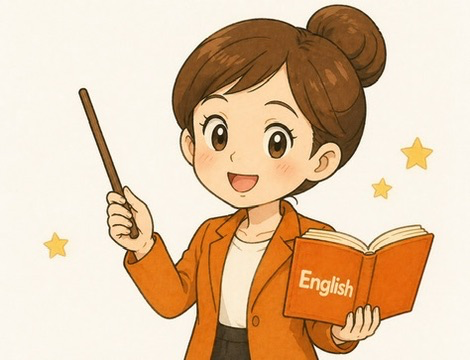
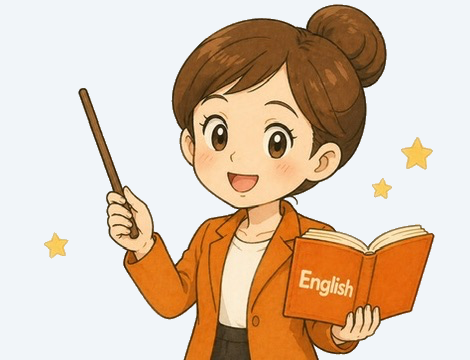
fix: 선생님 이미지 배경색을 게임화면 배경색(#F1F5F9)으로 교체
- Python flood-fill로 teacher.png 흰 배경(58.5%)을 #F1F5F9로 직접 교체
- CSS mix-blend-mode 제거 (이미지 자체 수정으로 불필요)

diff --git a/css/screens.css b/css/screens.css
@@ -784,7 +784,6 @@
   display: flex;
   align-items: flex-end;
   justify-content: center;
-  background: var(--clr-bg);
 }
 
 .teacher-svg {
@@ -792,7 +791,6 @@
   height: auto;
   max-height: 155px;
   display: block;
-  mix-blend-mode: multiply;
 }
 
 .speech-bubble {
